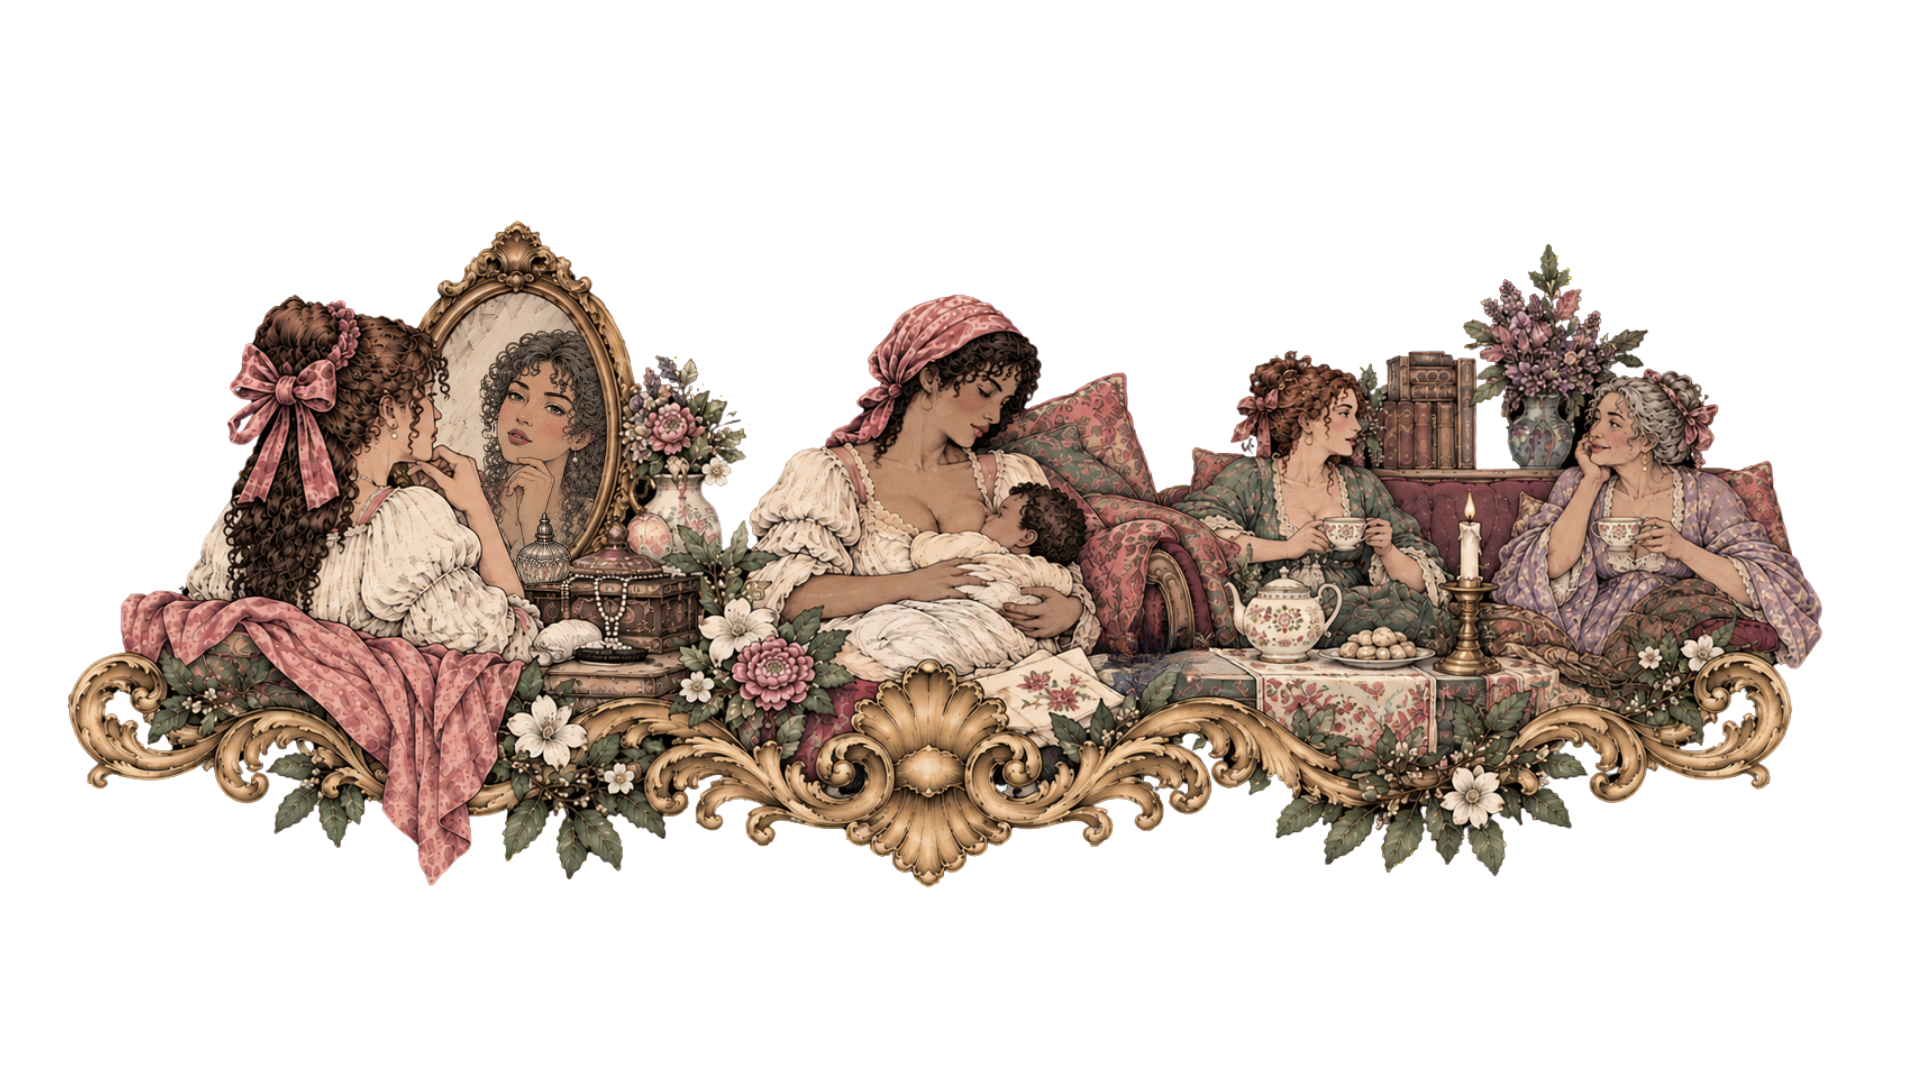
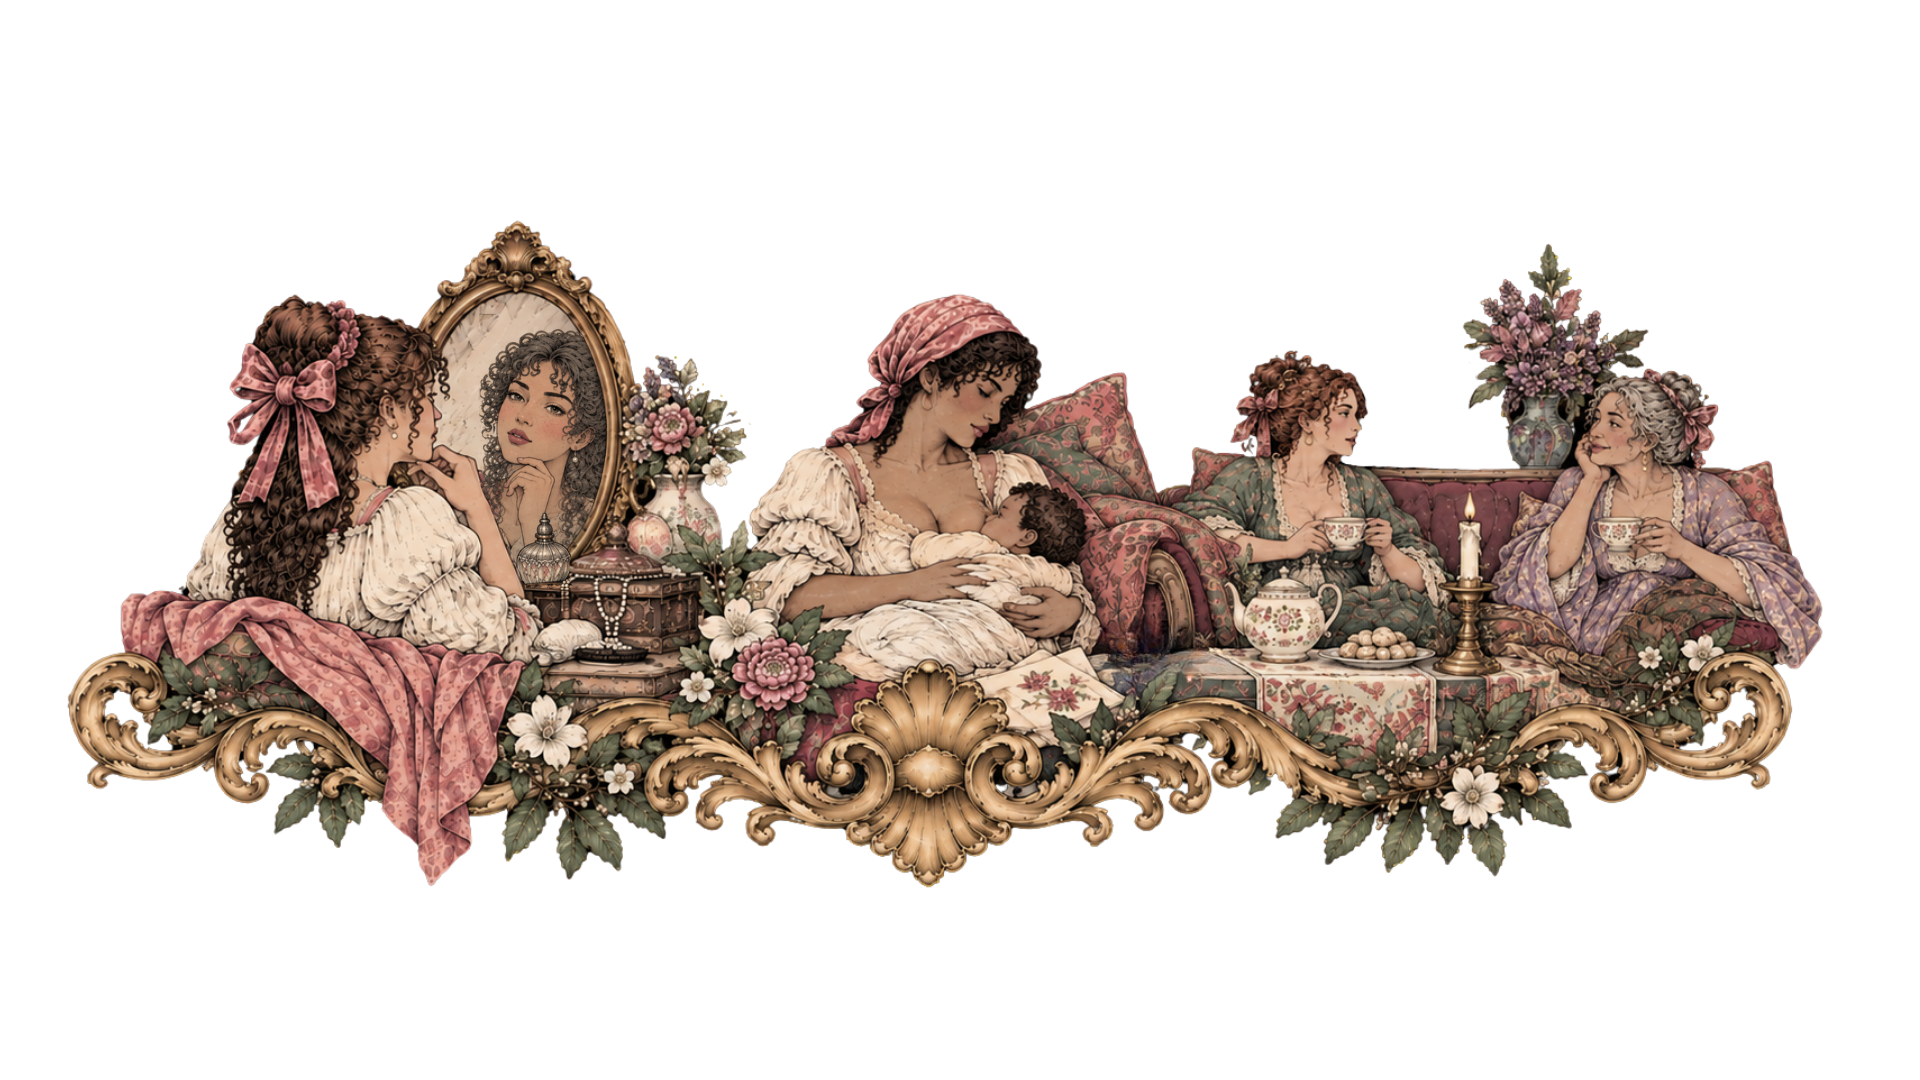
Perspectives & Identity: new illustration + backlight animation sequence

Changed region(s): [[0.6875, 0.3056, 0.7812, 0.4583]]

diff --git a/app/[vertical]/page.js b/app/[vertical]/page.js
@@ -257,6 +257,19 @@ export default function VerticalPage({ params }) {
         </section>
       ) : (vertical === 'work-wealth' || vertical === 'society-culture' || vertical === 'world-politics' || vertical === 'perspectives-identity') ? (
         <div style={{ position: 'relative', background: '#0a0a0a', lineHeight: 0, overflow: 'hidden' }}>
+          {/* Backlights — sit BEHIND the illustration, glow through transparent areas */}
+          {vertical === 'perspectives-identity' && [
+            { x: '20%', y: '55%', step: 1 },
+            { x: '50%', y: '50%', step: 2 },
+            { x: '78%', y: '55%', step: 3 },
+          ].map(({ x, y, step }) => (
+            <div key={`bl-${step}`} style={{
+              position: 'absolute', inset: 0, zIndex: 1, pointerEvents: 'none',
+              background: `radial-gradient(ellipse 30% 45% at ${x} ${y}, rgba(255,230,140,0.9) 0%, rgba(255,200,80,0.5) 30%, rgba(255,160,40,0.2) 60%, transparent 80%)`,
+              opacity: spotStep === step ? 1 : 0,
+              transition: 'opacity 0.7s ease',
+            }} />
+          ))}
           {/* Illustration — shifted up to crop transparent top area */}
           <img
             src={
@@ -268,6 +281,7 @@ export default function VerticalPage({ params }) {
             alt=""
             style={{
               display: 'block', width: '100%', height: 'auto',
+              position: 'relative', zIndex: 2,
               marginTop: vertical === 'society-culture' ? '-8%' : '-14%',
               marginBottom: vertical === 'society-culture' ? '-14%' : '-14%',
               opacity: ready ? 1 : 0,
@@ -275,13 +289,13 @@ export default function VerticalPage({ params }) {
               transition: 'opacity 0.9s ease, filter 0.9s ease',
             }}
           />
-          {/* Sequential spotlights for Perspectives & Identity */}
+          {/* Sequential spotlights over the illustration for Perspectives & Identity */}
           {vertical === 'perspectives-identity' && [
             { x: '20%', y: '48%', step: 1 },
             { x: '50%', y: '44%', step: 2 },
             { x: '78%', y: '48%', step: 3 },
           ].map(({ x, y, step }) => (
-            <div key={step} style={{
+            <div key={`sp-${step}`} style={{
               position: 'absolute', inset: 0, zIndex: 3, pointerEvents: 'none',
               background: `radial-gradient(ellipse 22% 32% at ${x} ${y}, rgba(255,252,220,0.55) 0%, rgba(255,245,180,0.2) 40%, transparent 70%)`,
               opacity: spotStep === step ? 1 : 0,
